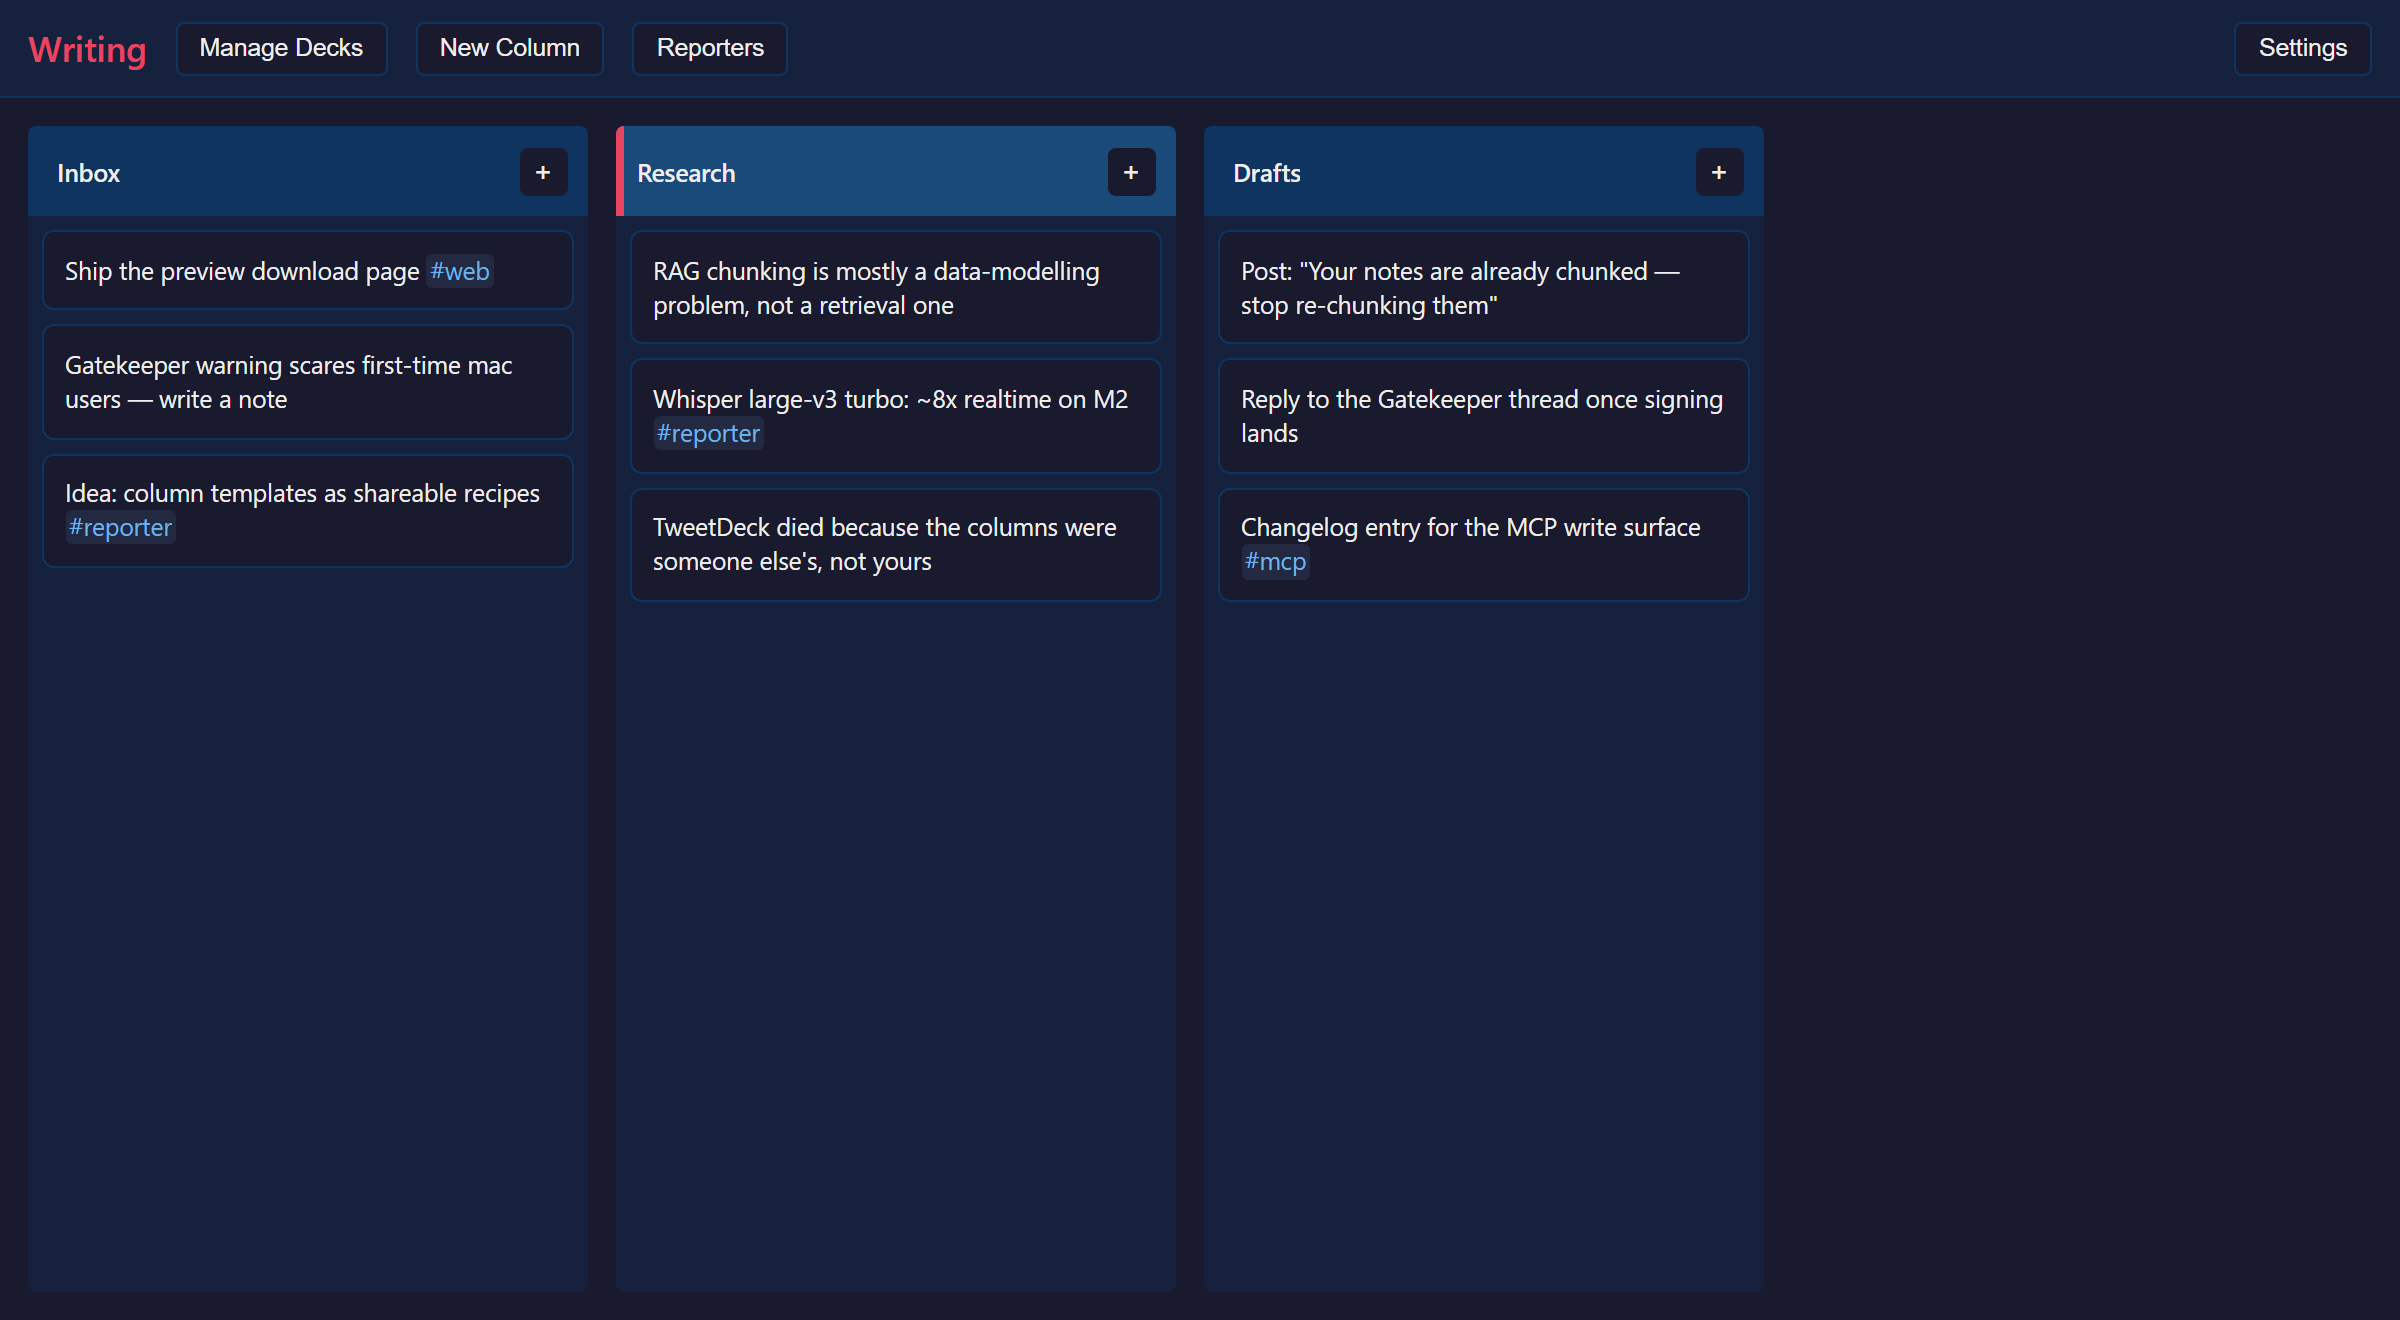
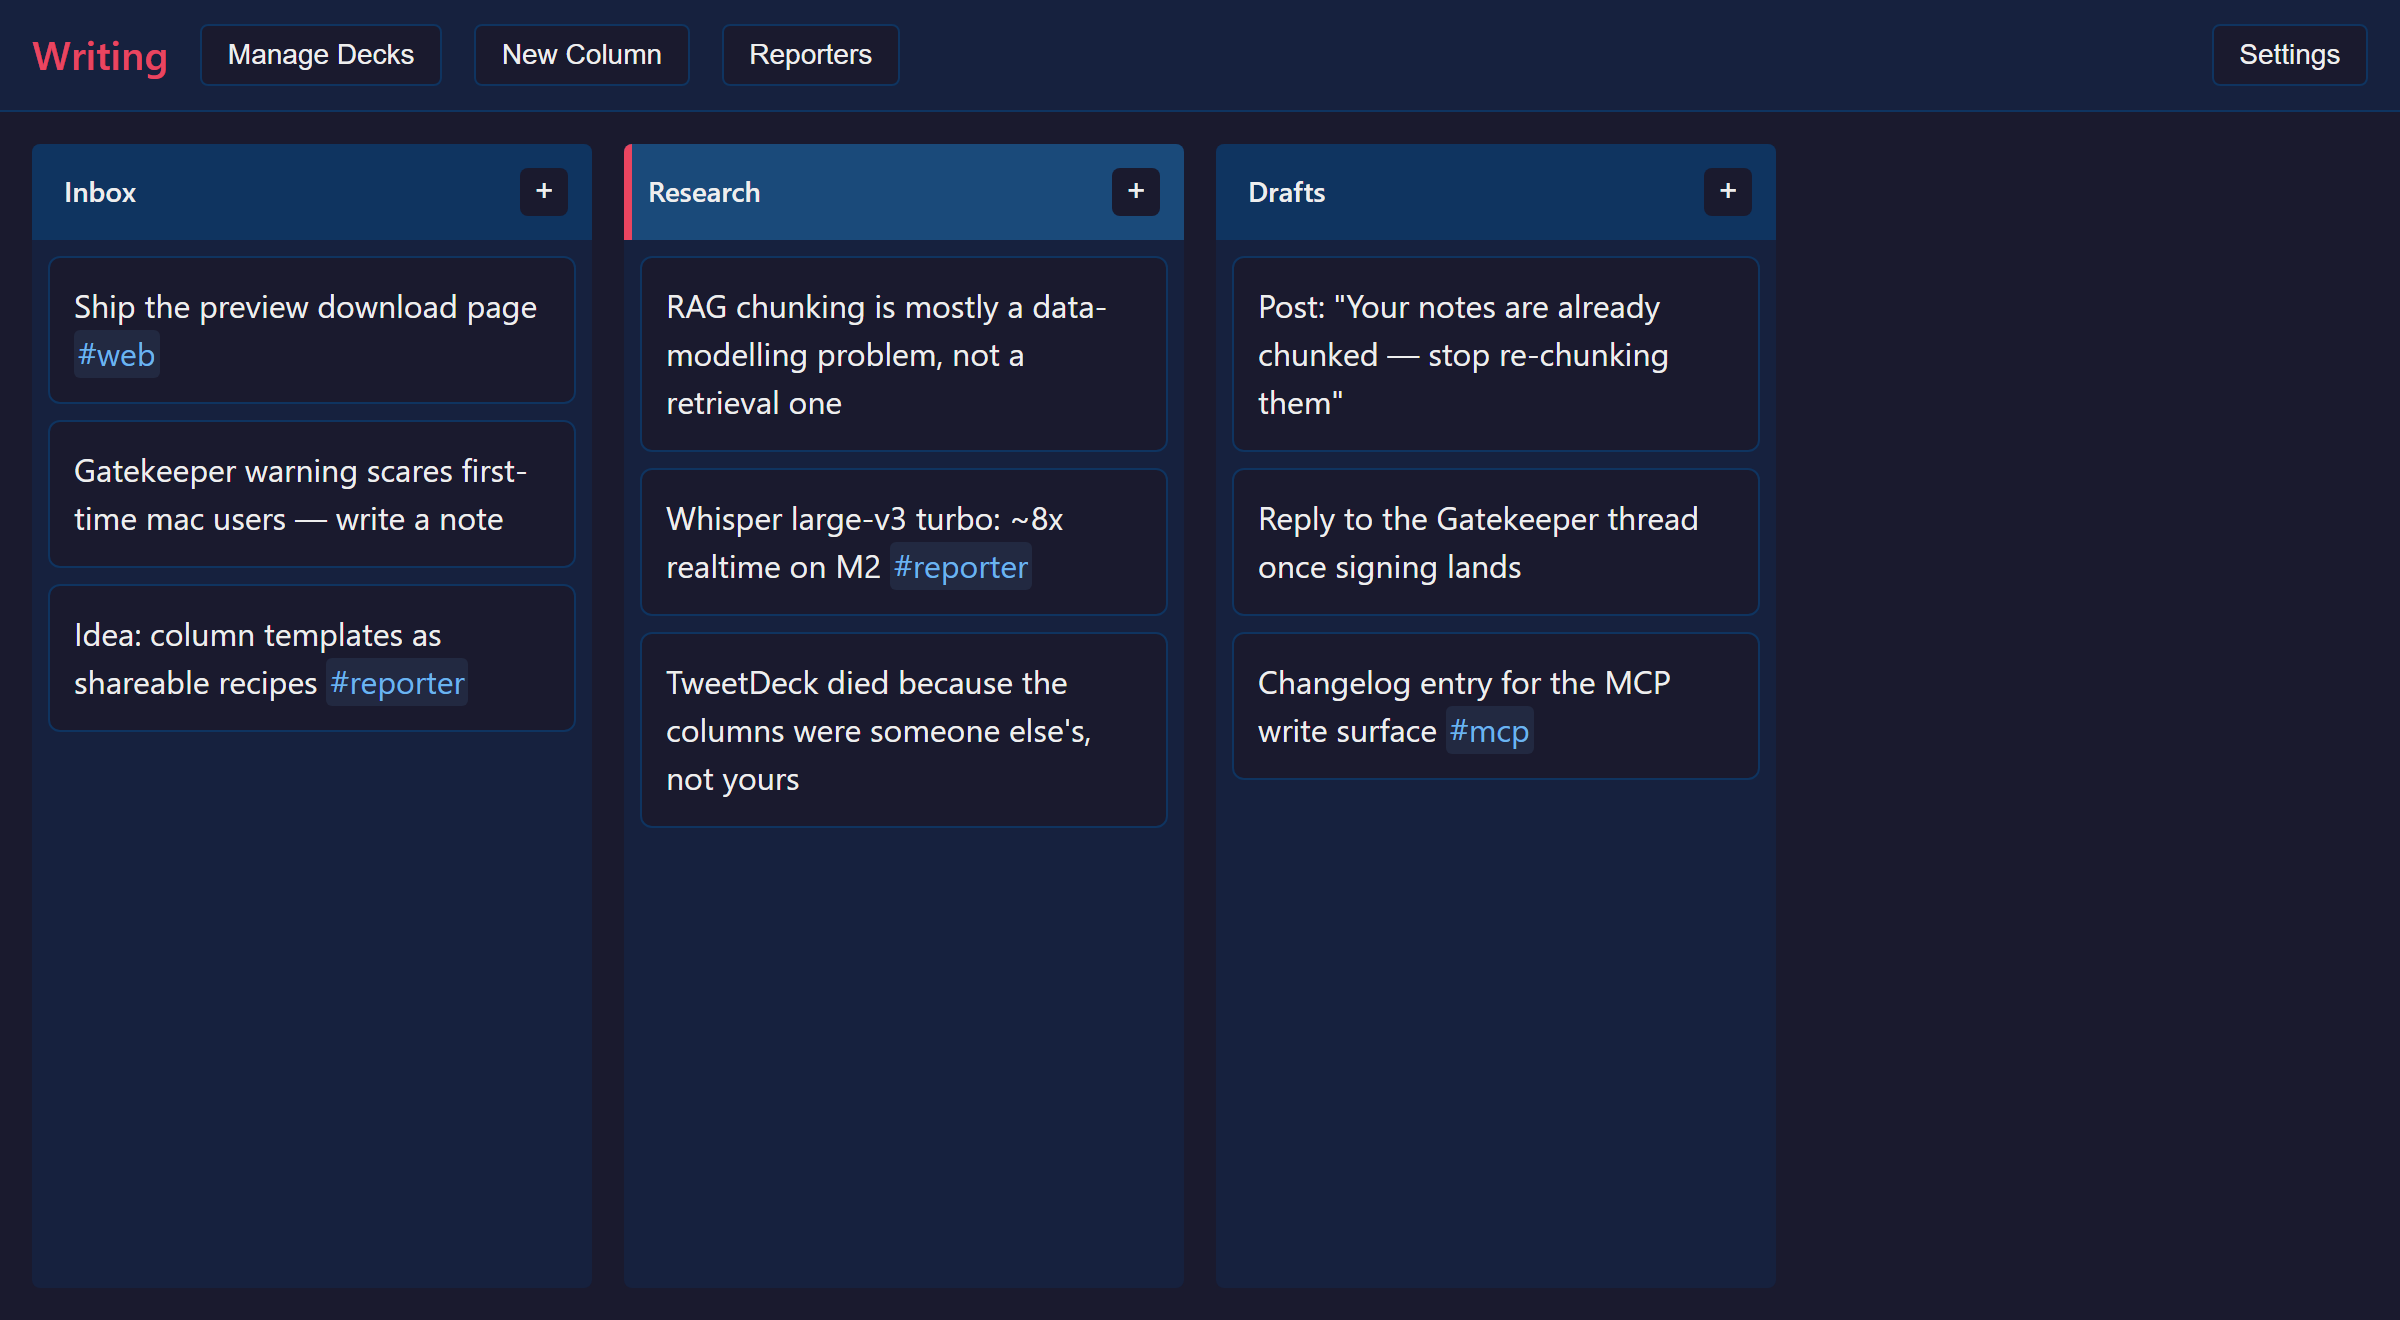
Raise default font size and honor line-height in cards (#96)
* Raise default font size and honor line-height in cards

Default UI font size goes from 14px to 16px. Card body and the card
editor now render at 1rem (the chosen font size) instead of 0.875rem,
and use the user's line-height setting instead of a fixed 1.4.

* Retake landing page screenshot at the new default font size

---------

diff --git a/packages/app/src/lib/components/Card.svelte b/packages/app/src/lib/components/Card.svelte
@@ -145,8 +145,8 @@
     background-color: var(--card-bg, #1a1a2e);
     border: 1px solid var(--card-border, #0f3460);
     border-radius: 6px;
-    font-size: 0.875rem;
-    line-height: 1.4;
+    font-size: 1rem;
+    line-height: var(--app-line-height, 1.5);
     position: relative;
     cursor: pointer;
     transition:

diff --git a/packages/app/src/lib/components/CardEditor.svelte b/packages/app/src/lib/components/CardEditor.svelte
@@ -157,8 +157,8 @@
       "&": {
         backgroundColor: "var(--card-bg)",
         color: "var(--text)",
-        fontSize: "0.875rem",
-        lineHeight: "1.4",
+        fontSize: "1rem",
+        lineHeight: "var(--app-line-height, 1.5)",
       },
       ".cm-content": {
         caretColor: "var(--accent)",

diff --git a/packages/app/src/lib/settings.svelte.ts b/packages/app/src/lib/settings.svelte.ts
@@ -34,7 +34,7 @@ export const DEFAULT_SETTINGS: SettingsState = {
   theme: "auto",
   fontFamily:
     '-apple-system, BlinkMacSystemFont, "Segoe UI", Roboto, Oxygen, Ubuntu, Cantarell, sans-serif',
-  fontSize: 14,
+  fontSize: 16,
   lineHeight: 1.5,
   markdownEnabled: true,
   vimEnabled: false,

diff --git a/packages/app/src/lib/styles/theme.css b/packages/app/src/lib/styles/theme.css
@@ -85,7 +85,7 @@ body {
 html {
   font-family: -apple-system, BlinkMacSystemFont, "Segoe UI", Roboto, Oxygen,
     Ubuntu, Cantarell, sans-serif;
-  font-size: var(--app-font-size, 14px);
+  font-size: var(--app-font-size, 16px);
   line-height: var(--app-line-height, 1.5);
 }
 
